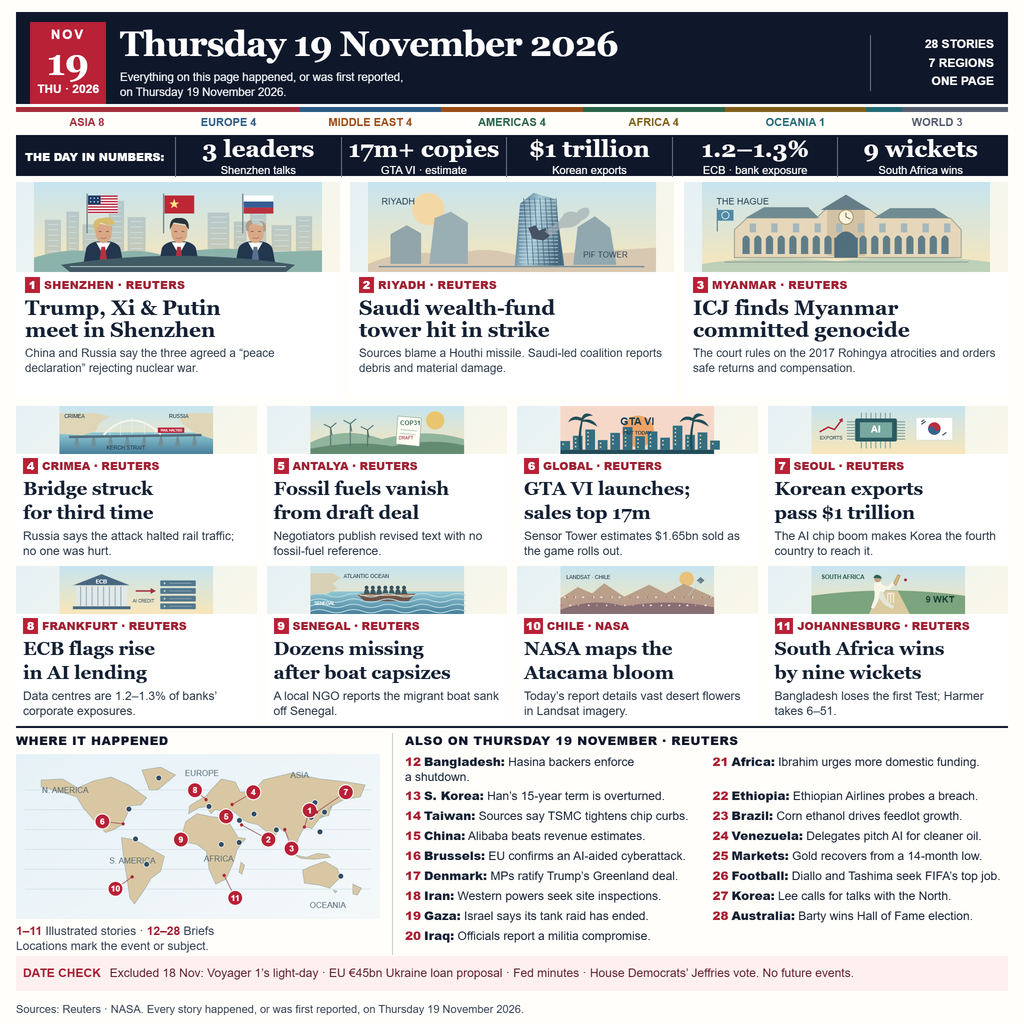
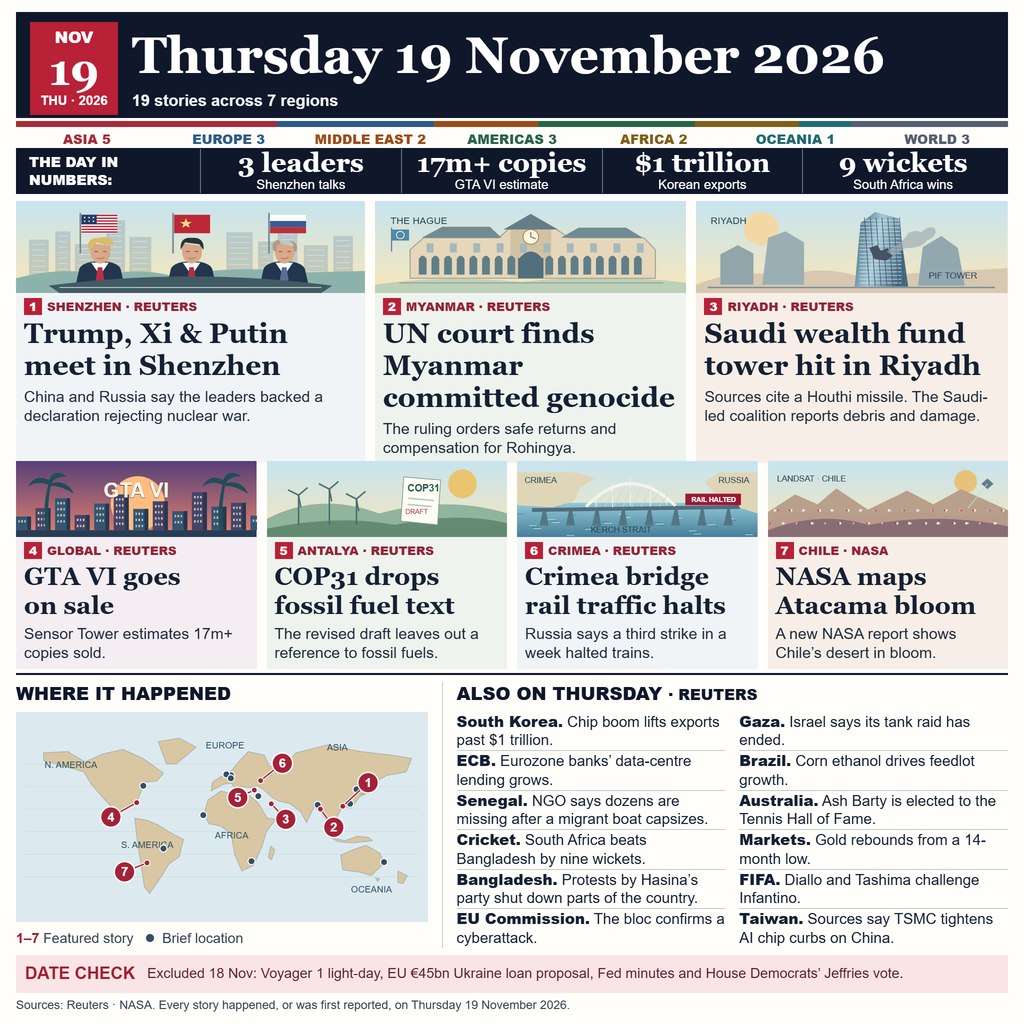
Improve readability of 19 November news edition

diff --git a/render.html b/render.html
@@ -9,76 +9,74 @@
 *{box-sizing:border-box}
 html,body{margin:0;width:1024px;height:1024px;background:var(--paper);color:var(--ink)}
 body{font-family:Arial,sans-serif;-webkit-font-smoothing:antialiased}
-.page{width:1024px;height:1024px;padding:12px 16px 8px;display:grid;grid-template-rows:92px 31px 47px 224px 160px 160px 230px 35px 25px;gap:0}
-.masthead{background:var(--navy);color:#fff;display:grid;grid-template-columns:76px 1fr 124px;gap:14px;align-items:center;padding:10px 14px}
-.calendar{background:var(--red);text-align:center;padding:5px 0 6px;display:grid;gap:0}
-.calendar .month{font-size:13px;font-weight:700;letter-spacing:2px;line-height:1.25}
-.calendar .date{font:700 37px/1.05 Georgia,serif}
-.calendar .year{font-size:12px;line-height:1.3;font-weight:700}
-h1{font:700 35px/1.08 Georgia,serif;margin:0 0 6px;letter-spacing:-.75px;white-space:nowrap}
-.subtitle{font-size:11.4px;line-height:1.3;margin:0;color:#f1f5f9;max-width:640px}
-.edition{font-size:12px;line-height:1.55;text-align:right;font-weight:700;border-left:1px solid #657083;padding-left:12px}
-.regions{display:grid;grid-template-rows:5px 20px;gap:2px;padding:3px 0 1px}
+.page{width:1024px;height:1024px;padding:12px 16px 10px;display:grid;grid-template-rows:106px 30px 53px 260px 212px 282px 38px 21px}
+.masthead{background:var(--navy);color:#fff;display:grid;grid-template-columns:88px minmax(0,1fr);gap:14px;align-items:center;padding:10px 14px}
+.calendar{background:var(--red);text-align:center;padding:5px 0;display:grid}
+.calendar .month{font-size:16px;font-weight:800;line-height:1.25}
+.calendar .date{font:700 44px/1.05 Georgia,serif}
+.calendar .year{font-size:13px;line-height:1.3;font-weight:700}
+h1{font:700 51px/1.15 Georgia,serif;margin:0 0 6px;white-space:nowrap}
+.subtitle{font-size:16px;line-height:1.25;margin:0;color:#f1f5f9;font-weight:700}
+.regions{display:grid;grid-template-rows:6px 20px;gap:2px;padding:3px 0 1px}
 .distribution{display:flex}
 .region-keys{display:grid;grid-template-columns:repeat(7,1fr)}
-.region{color:var(--ink);text-align:center;font-size:11px;font-weight:700;line-height:17px;white-space:nowrap}
-.numbers{display:grid;grid-template-columns:154px repeat(5,1fr);background:var(--navy);color:white;align-items:center;margin-bottom:6px;padding:2px 5px}
-.numbers-title{font-size:11px;line-height:1.3;font-weight:800;letter-spacing:0;padding-left:4px}
+.region{color:var(--ink);text-align:center;font-size:13px;font-weight:800;line-height:20px;white-space:nowrap}
+.numbers{display:grid;grid-template-columns:179px repeat(4,1fr);background:var(--navy);color:white;align-items:center;margin-bottom:7px;padding:1px 5px}
+.numbers-title{font-size:14px;line-height:1.3;font-weight:800;padding-left:8px}
 .figure{border-left:1px solid #667085;text-align:center;padding:0 4px}
-.figure strong{font:700 24px/1 Georgia,serif;color:#fff;display:block;white-space:nowrap}
-.figure span{font-size:11px;line-height:1.3;display:block;margin-top:2px;color:#fff}
+.figure strong{font:700 27px/1 Georgia,serif;color:#fff;display:block;white-space:nowrap}
+.figure span{font-size:13px;line-height:1.25;display:block;margin-top:1px;color:#fff}
 .stories{display:grid;gap:10px;padding-bottom:8px}
-.leads{grid-template-columns:repeat(3,minmax(0,1fr))}
+.leads{grid-template-columns:1.12fr 1fr 1fr}
 .medium{grid-template-columns:repeat(4,minmax(0,1fr))}
-.story{min-width:0; background:white; display:flex; flex-direction:column}
-.art{height:90px;background:linear-gradient(135deg,#e6f1f5,#faf7e9);flex-shrink:0;margin:0 0 5px}
-.art svg{display:block;width:100%;height:100%;overflow:visible}
-.story-copy{padding:0 9px 7px;flex:1}
-.locator{font-size:11px;line-height:1.3;font-weight:800;color:#9f2032;margin:0 0 4px;letter-spacing:.2px}
-.locator b{color:white;background:var(--red);display:inline-block;min-width:15px;text-align:center;margin-right:4px;padding:1px 2px}
-h2{font:700 21.2px/1.04 Georgia,serif;margin:0 0 5px;letter-spacing:-.25px}
-.summary{font-size:11.6px;line-height:1.26;margin:0;color:#263445}
-.medium .art{height:48px;margin-bottom:4px}
-.medium .story-copy{padding:0 7px 5px}
-.medium h2{font-size:19px;line-height:1.25;margin-bottom:4px;letter-spacing:-.2px}
-.medium .locator{font-size:11px;line-height:1.3;margin-bottom:3px;letter-spacing:0}
-.medium .summary{font-size:12px;line-height:1.27}
-.bottom{display:grid;grid-template-columns:38% 62%;border-top:2px solid var(--navy);padding:5px 0 6px;gap:0}
-.map-panel{padding-right:12px;border-right:1px solid var(--rule);display:flex;flex-direction:column}
-h3{font-size:12px;line-height:1.3;letter-spacing:.55px;margin:0 0 5px;font-weight:800;color:var(--navy)}
-.map{height:165px; background:linear-gradient(145deg,#e6f1f7,#f4f8f9)}
+.story{min-width:0;background:#f1f4f6;display:flex;flex-direction:column}
+.story[data-story="2"],.story[data-story="5"]{background:#eef3ee}
+.story[data-story="3"],.story[data-story="7"]{background:#f7efe7}
+.story[data-story="4"]{background:#f4edf2}
+.art{height:92px;flex-shrink:0;overflow:hidden;background:#e4edf1}
+.art svg{display:block;width:100%;height:100%}
+.story-copy{padding:5px 8px 6px;flex:1}
+.locator{font-size:12px;line-height:1.25;font-weight:800;color:#922538;margin:0 0 3px;white-space:nowrap}
+.locator b{color:white;background:var(--red);display:inline-block;min-width:18px;text-align:center;margin-right:5px;padding:1px 2px}
+h2{font:700 28px/1.14 Georgia,serif;margin:0 0 5px}
+.summary{font-size:15.5px;line-height:1.25;margin:0;color:#1f2c3c}
+.medium .art{height:76px}
+.medium h2{font:700 25px/1.14 Georgia,serif;margin-bottom:5px}
+.bottom{display:grid;grid-template-columns:43% 57%;border-top:2px solid var(--navy);padding:7px 0}
+.map-panel{padding-right:14px;border-right:1px solid var(--rule);display:flex;flex-direction:column}
+h3{font-size:18px;line-height:1.25;margin:0 0 7px;font-weight:800;color:var(--navy)}
+.map{height:210px;background:#dceaf0}
 .map svg{width:100%;height:100%;display:block}
-.map-note{margin:5px 0 0;font-size:12px;line-height:1.3;color:#344154}
+.map-note{margin:7px 0 0;font-size:14px;line-height:1.3;color:#344154}
 .map-note strong{color:#9f2032}
-.brief-panel{padding-left:12px;min-width:0}
-.briefs{display:grid;grid-template-columns:repeat(2,minmax(0,1fr));grid-auto-flow:column;grid-template-rows:repeat(9,1fr);column-gap:12px;row-gap:3px;height:192px}
-.brief{font-size:12px;line-height:1.25;min-width:0;margin:0;padding:0}
+.brief-panel{padding-left:14px;min-width:0}
+.briefs{display:grid;grid-template-columns:repeat(2,minmax(0,1fr));grid-auto-flow:column;grid-template-rows:repeat(6,minmax(min-content,1fr));column-gap:14px;height:235px}
+.brief{font-size:15px;line-height:1.25;min-width:0;margin:0;border-bottom:1px solid var(--rule)}
+.brief:nth-child(6n){border-bottom:0}
 .brief b{font-weight:800}
-.brief .id{font-size:12px;color:#ab2033;font-weight:800;margin-right:3px}
-.date-check{background:#fff0f0; color:#60202b; padding:4px 7px; font-size:12px; line-height:1.3; display:flex; align-items:center; gap:9px}
-.date-check strong{font-size:12px;white-space:nowrap;color:#a51e31}
-.footer{font-size:11px;line-height:1.3;align-self:end;color:#354052;margin:0}
+.map-dot{display:inline-block;width:8px;height:8px;margin:0 4px 1px 9px;border-radius:50%;background:#334e66}
+.date-check{background:#f9e5e6;color:#60202b;padding:4px 9px;font-size:14px;line-height:1.25;display:flex;align-items:center;gap:12px}
+.date-check strong{font-size:17px;white-space:nowrap;color:#a51e31}
+.footer{font-size:12px;line-height:1.3;align-self:end;color:#354052;margin:0}
 </style>
-<style id="gesso-text-wrap">h1,h2,h3{text-wrap:balance}p,li,figcaption,blockquote{text-wrap:pretty}</style>
+<style id="gesso-text-wrap">h1,h2,h3{text-wrap:balance}p,li,figcaption,blockquote{text-wrap:pretty}.brief{text-wrap:wrap}</style>
 <style id="gesso-font-smoothing">html{-webkit-font-smoothing:antialiased;-moz-osx-font-smoothing:grayscale}</style>
 </head>
 <body>
 <main class="page">
   <header class="masthead">
     <div class="calendar"><span class="month">NOV</span><span class="date">19</span><span class="year">THU · 2026</span></div>
-    <div><h1>Thursday 19 November 2026</h1><p class="subtitle">Everything on this page happened, or was first reported,<br>on Thursday 19 November 2026.</p></div>
-    <div class="edition">28 STORIES<br>7 REGIONS<br>ONE PAGE</div>
+    <div><h1>Thursday 19 November 2026</h1><p class="subtitle"><!-- SUBTITLE --></p></div>
   </header>
   <div class="regions"><!-- REGIONS --></div>
   <div class="numbers"><div class="numbers-title">THE DAY IN NUMBERS:</div><!-- FIGURES --></div>
   <section class="stories leads" aria-label="Three lead stories"><!-- LEADS --></section>
   <section class="stories medium" aria-label="Four major stories"><!-- SECOND --></section>
-  <section class="stories medium" aria-label="Four further stories"><!-- THIRD --></section>
   <section class="bottom">
-    <div class="map-panel"><h3>WHERE IT HAPPENED</h3><div class="map"><!-- MAP --></div><p class="map-note"><strong>1–11</strong> Illustrated stories · <strong>12–28</strong> Briefs<br>Locations mark the event or subject.</p></div>
-    <div class="brief-panel"><h3>ALSO ON THURSDAY 19 NOVEMBER · REUTERS</h3><div class="briefs"><!-- BRIEFS --></div></div>
+    <div class="map-panel"><h3>WHERE IT HAPPENED</h3><div class="map"><!-- MAP --></div><p class="map-note"><!-- MAP_KEY --></p></div>
+    <div class="brief-panel"><h3>ALSO ON THURSDAY <small>· REUTERS</small></h3><div class="briefs"><!-- BRIEFS --></div></div>
   </section>
-  <aside class="date-check"><strong>DATE CHECK</strong><span>Excluded 18 Nov: Voyager 1’s light-day · EU €45bn Ukraine loan proposal · Fed minutes · House Democrats’ Jeffries vote. No future events.</span></aside>
+  <aside class="date-check"><strong>DATE CHECK</strong><span>Excluded 18 Nov: Voyager 1 light-day, EU €45bn Ukraine loan proposal, Fed minutes and House Democrats’ Jeffries vote.</span></aside>
   <p class="footer">Sources: Reuters · NASA. Every story happened, or was first reported, on Thursday 19 November 2026.</p>
 </main>
 </body>

diff --git a/README.md b/README.md
@@ -4,7 +4,7 @@
 [![rank](https://make.fun/badge/news-image-20261119/argaromit-lab/news-image-20261119/rank.svg)](https://make.fun/bounty/news-image-20261119/leaderboard?utm_source=github&utm_medium=readme&utm_campaign=news-image-20261119)
 [![reward](https://make.fun/badge/news-image-20261119/argaromit-lab/news-image-20261119/reward.svg)](https://make.fun/bounty/news-image-20261119?utm_source=github&utm_medium=readme&utm_campaign=news-image-20261119)
 
-An original editorial front page of Thursday 19 November 2026: 28 attributed stories, 11 vector illustrations, seven regional counts, five numerical callouts, and a six-continent locator map. Built for the make.fun bounty **Sum up 19 November's world news in one image**.
+An original editorial front page of Thursday 19 November 2026 with 19 attributed stories across seven regions. Seven vector illustrations, four numerical callouts, and a six-continent map anchor the page. Built for the make.fun bounty **Sum up 19 November's world news in one image**.
 
 ![Thursday 19 November 2026: world news front page](entry.png)
 
@@ -37,7 +37,7 @@ The builder writes a full-size capture, a 300px preview, the rendered HTML, sour
 
 ## Editorial sourcing
 
-[`stories.mjs`](stories.mjs) contains all 28 source URLs, exact copy, geographical coordinates, and date notes. Sources used are Reuters and NASA. The page credits the agencies actually consulted.
+The edition in [`stories.mjs`](stories.mjs) selects 19 entries from the editorial ledger. Each selected entry carries its source URL, geographical coordinates, and any date or attribution notes. The page credits Reuters and NASA.
 
 The Shenzhen and GTA VI articles have rolling URLs beginning on 18 November; their text explicitly dates the summit and game rollout to Thursday 19 November. The declaration is attributed to China and Russia, the Riyadh attribution to sources and the Saudi-led coalition, the bridge interruption to Russian authorities, and the boat report to a local NGO. GTA VI's 17m-plus copies and $1.65bn are Sensor Tower estimates at report time, not final audited daily sales.
 
@@ -45,7 +45,7 @@ NASA's new Atacama report is dated 19 November. Its September and October satell
 
 The date banner excludes the 18 November Voyager milestone, EU €45bn loan proposal, Fed minutes, and House Democrats' Jeffries vote. Fiji's drought declaration is also excluded because the article dates the address to Wednesday. The image does not claim a final market close or results of future fixtures.
 
-The three illustrated rows use the requested 3 + 4 + 4 columns. Heights are compacted to preserve the map, complete two-column briefs, and date banner inside one square. Headlines and figures provide the thumbnail hierarchy; brief copy is intended for inspection at full image size.
+Three lead cards and four secondary cards sit above the locator map and 12 briefs in two columns. The lead and secondary headlines use 28 px and 25 px type. The 300 px preview prioritizes headlines and figures, while the full image carries the complete brief copy.
 
 ## License
 

diff --git a/AUDIT.md b/AUDIT.md
@@ -1,6 +1,22 @@
 # Review checkpoint · 19 November 2026
 
-The image is built and locally verified. Submission is paused for the owner's visual review.
+## Readability revision
+
+The current image covers 19 stories across seven regions with seven illustrated cards and 12 briefs. It uses 28 px lead headlines, 25 px secondary headlines, and 15 px brief type. Seven numbered pins link directly to the featured cards. The final map review corrected the positions of the GTA VI and Crimea pin labels. The revision uses the EU Commission cyberattack brief in place of the Greenland ratification brief, whose outcome could not be rechecked.
+
+| Check | Current result |
+| --- | --- |
+| PNG | 1024 × 1024, 631,820 bytes, complete chunks and valid CRCs |
[1 lines of base64/hex data omitted]
+| Browser geometry | 110 text runs, zero problems |
+| Runtime | Two local Node processes and two fresh offline Linux Node 22 containers produced identical bytes |
+| Anti-slop | PASS, severity 0, gating 0, 17 editorial advisories, no external stylesheets |
+
+The comparison used `@izayoi-20`'s **Precise Lemma**, whose public leaderboard rate was 99.2290% at review time. Three focused passes addressed typography and clipping, illustration detail, and map and brief hierarchy. The final vision audits scored the revision 58/100 on Groq and 78/100 on Mistral. Both critics favored the reference's wider coverage and found the revision's hierarchy easier to scan. These are local critic scores. The revision is held for review before submission.
+
+## Previous 28-story checkpoint
+
+The following records describe the previous build, whose PNG had the SHA-256 shown below.
 
 | Check | Result |
 | --- | --- |
